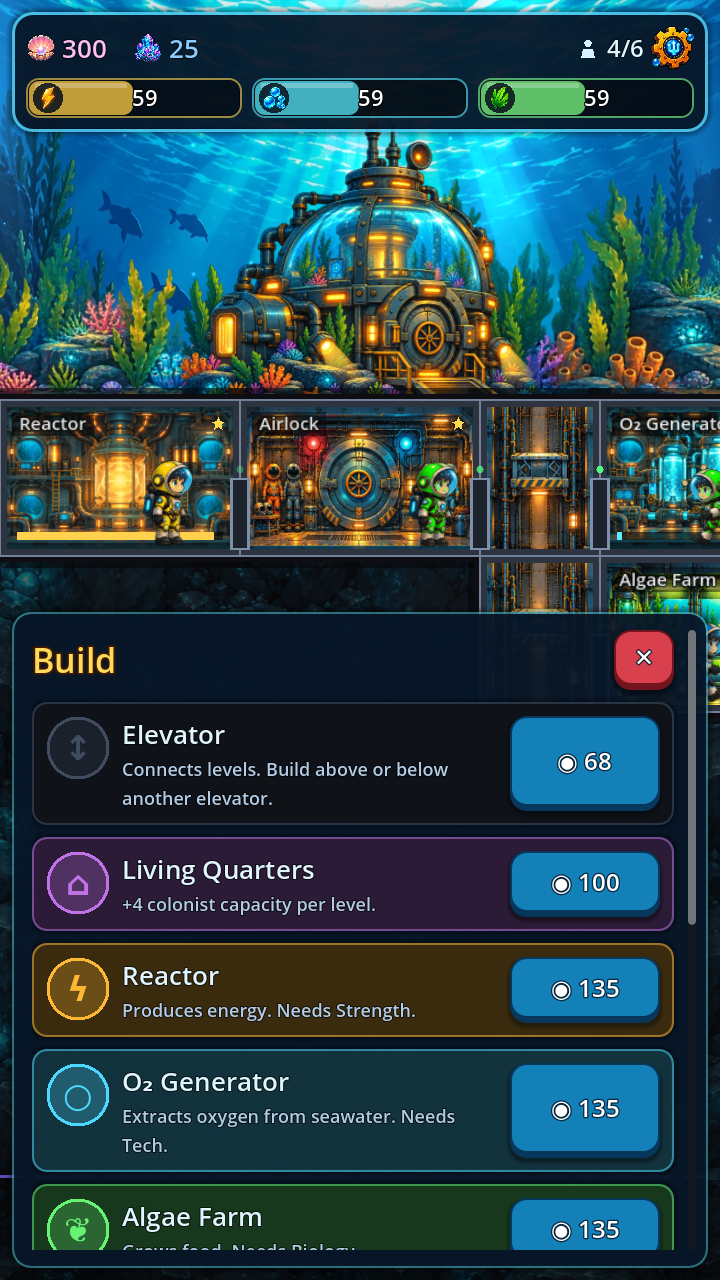
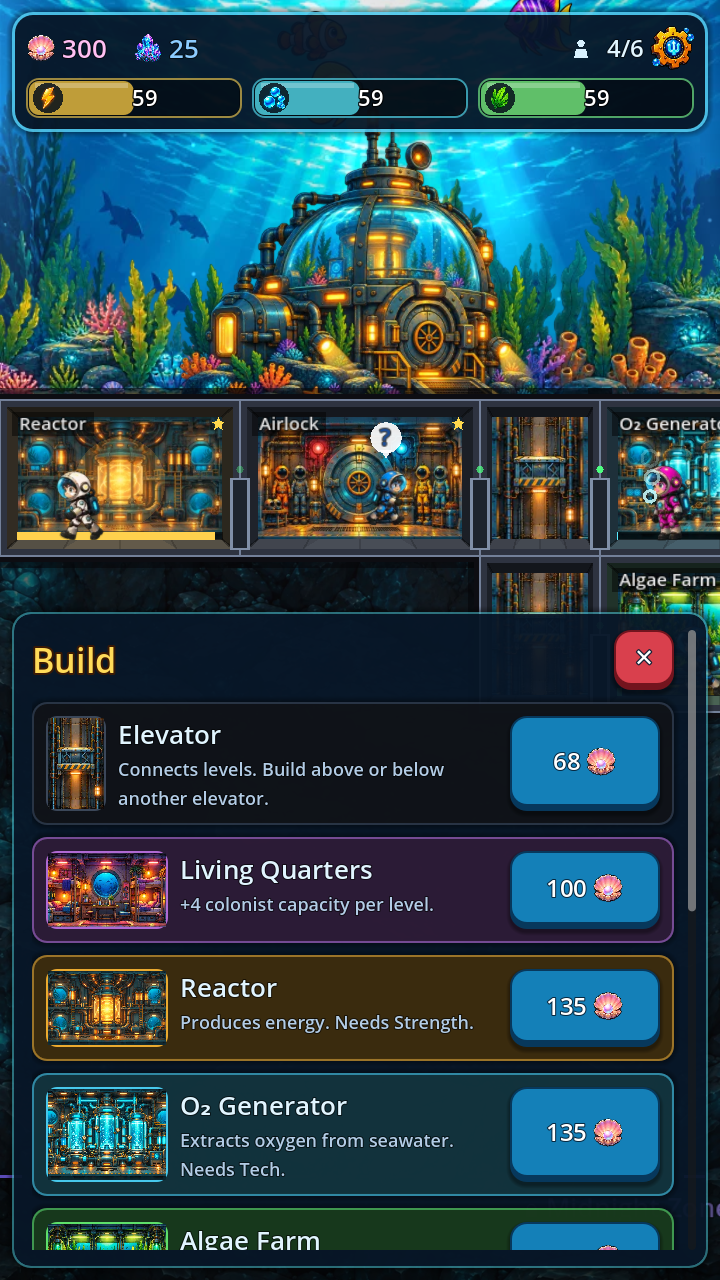
Экран загрузки, мини-картинки отсеков в стройке, естественнее рыбы, колонисты меньше
Claude-Session: https://claude.ai/code/session_01Gzv6rseeD6rLRgwoFsQ4fS

diff --git a/docs/SCREENSHOTS.md b/docs/SCREENSHOTS.md
@@ -6,12 +6,13 @@
 | | | |
 |---|---|---|
 | ![](screenshots/main.png)<br>**База** | ![](screenshots/lab.png)<br>**Лаборатория, док, склад** | ![](screenshots/deep.png)<br>**Глубина, объединённая ферма 2×, торговец, пузыри с сокровищами**<br>🎨 спрайт пузыря (по желанию) |
-| ![](screenshots/room.png)<br>**Карточка отсека** | ![](screenshots/build.png)<br>**Стройка**<br>🎨 иконки отсеков в списке | ![](screenshots/buildmode.png)<br>**Выбор места** |
+| ![](screenshots/room.png)<br>**Карточка отсека** | ![](screenshots/build.png)<br>**Стройка**<br>Мини-картинки отсеков | ![](screenshots/buildmode.png)<br>**Выбор места** |
 | ![](screenshots/colonists.png)<br>**Экипаж** | ![](screenshots/colonist.png)<br>**Карточка колониста** | ![](screenshots/gear.png)<br>**Снаряжение** |
 | ![](screenshots/planner.png)<br>**План экспедиции** | ![](screenshots/expedition.png)<br>**Экспедиция и журнал** | ![](screenshots/fire.png)<br>**Пожар, потоп, удильщик** |
 | ![](screenshots/tasks.png)<br>**Задания, сюжет, событие недели** | ![](screenshots/research.png)<br>**Исследования**<br>🎨 иконки исследований (по желанию) | ![](screenshots/achievements.png)<br>**Достижения** |
 | ![](screenshots/shop.png)<br>**Магазин** | ![](screenshots/shop1.png)<br>**Наборы** | ![](screenshots/shop2.png)<br>**Кристаллы** |
 | ![](screenshots/crate.png)<br>**Открытие ящика** | ![](screenshots/daily.png)<br>**Ежедневная награда**<br>🎨 иконки наград по дням | ![](screenshots/trader.png)<br>**Торговец** |
+| ![](screenshots/loading.png)<br>**Экран загрузки** |
 | ![](screenshots/mode.png)<br>**Выбор сложности** | ![](screenshots/settings.png)<br>**Настройки, 10 языков** | ![](screenshots/tut1.png)<br>**Обучение** | ![](screenshots/tut3.png)<br>**Обучение: подсветка цели** |
 
 ## Что ещё нарисовать (по важности)
